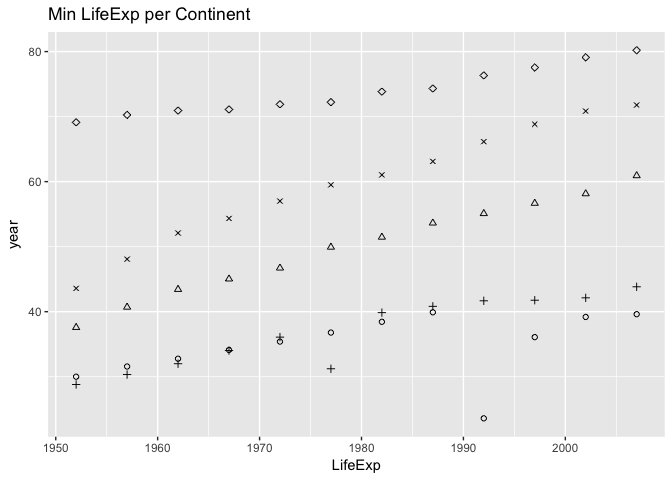
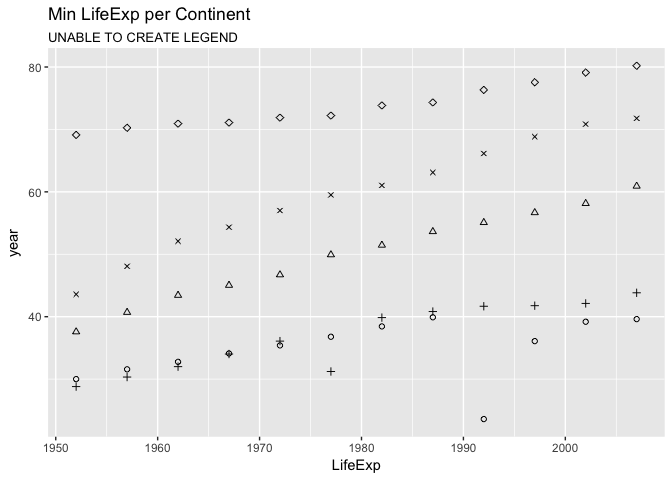
Update graph

diff --git a/hw_04/hw04_tidyData.md b/hw_04/hw04_tidyData.md
@@ -154,7 +154,7 @@ actv3_measures %>%
       geom_point(aes(y = Europe), shape = 4) +
       geom_point(aes(y = Oceania), shape = 5) +
       labs(title = "Min LifeExp per Continent", x = "LifeExp", 
-           y = "year", shape = "Continents")
+           y = "year", subtitle = "UNABLE TO CREATE LEGEND")
 ```
 
 ![](hw04_tidyData_files/figure-markdown_github-ascii_identifiers/unnamed-chunk-2-2.png)
